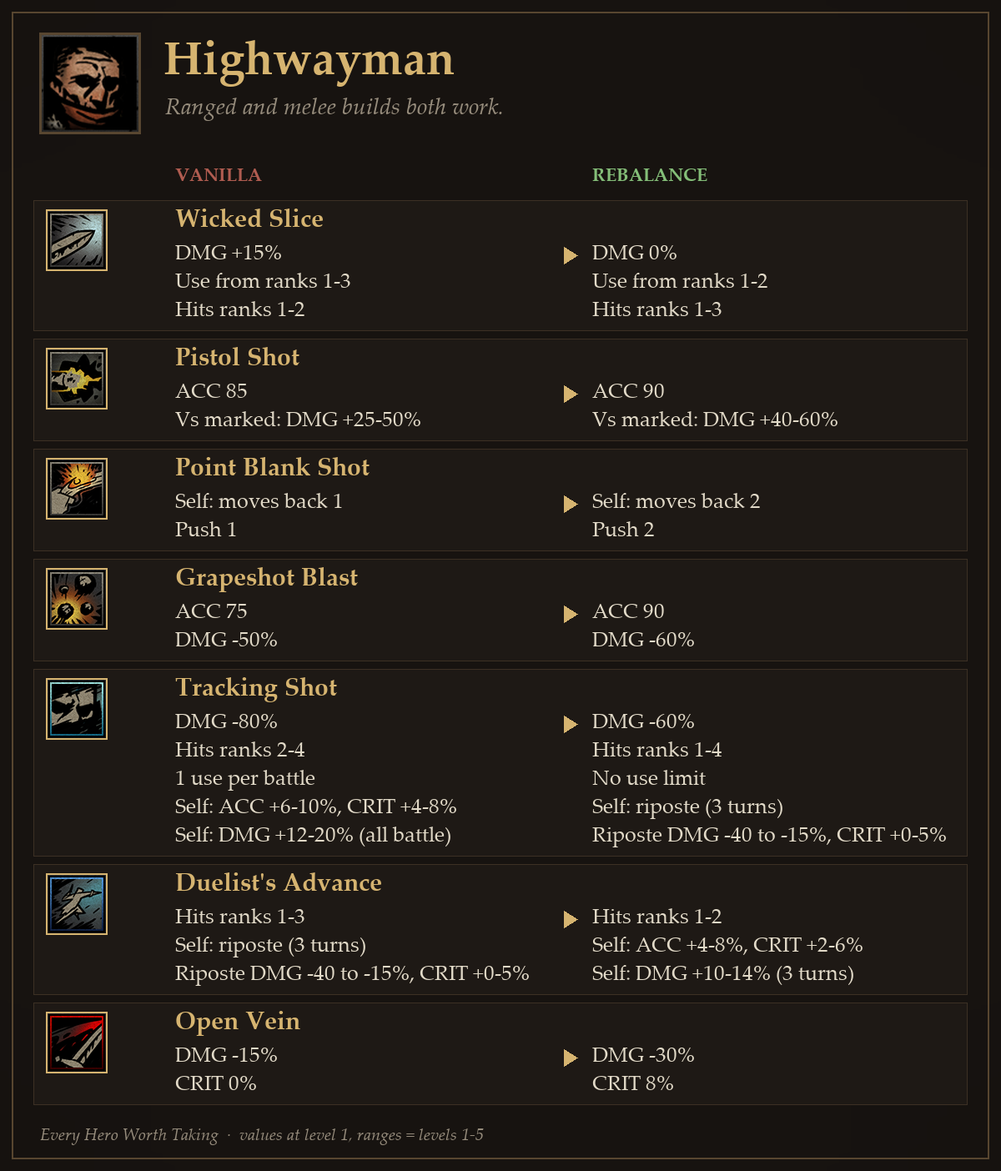
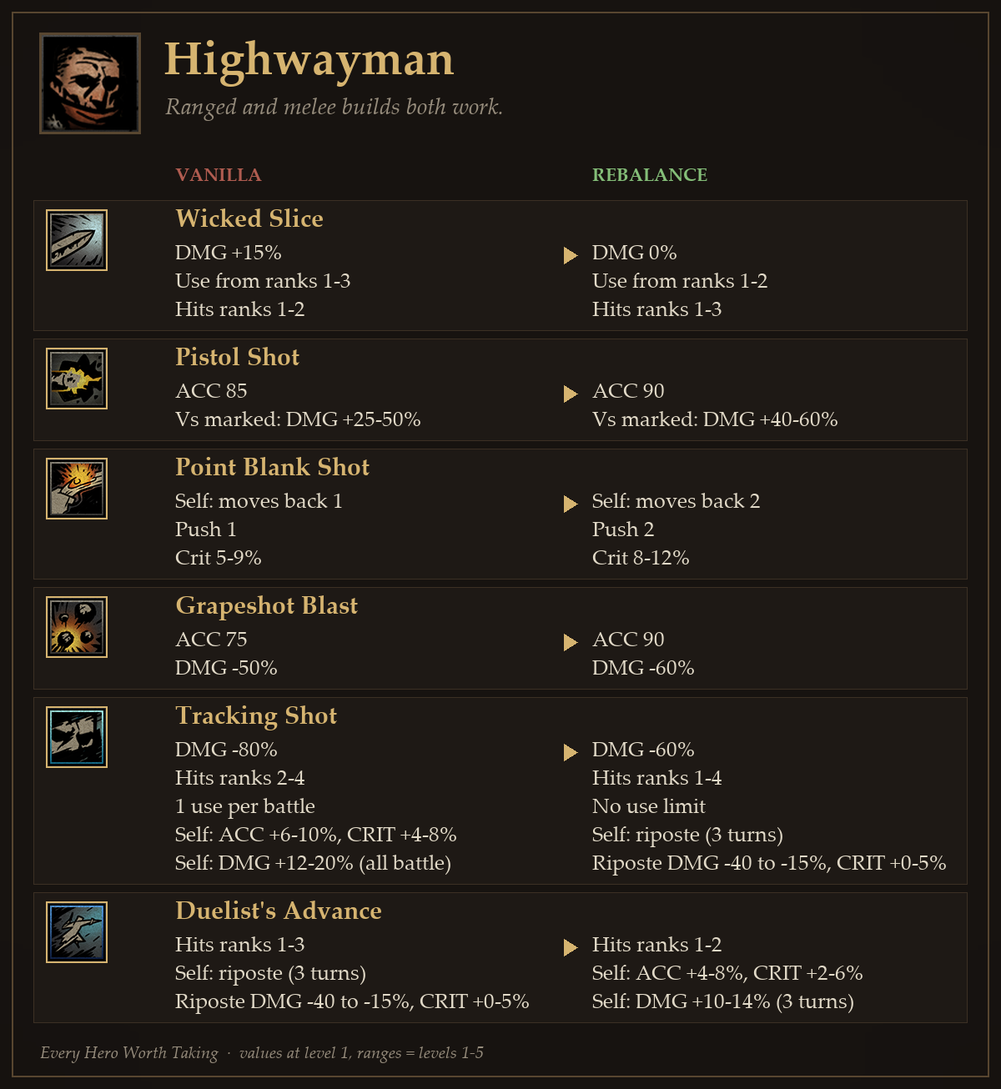
Workshop update 1.1: Musketeer in preview (20 heroes, highlighted), cards/reasons/descriptions for MUS-111, LEP-006, DUE-011, HWY-021/022, BH-018, HM-028; 8 translations; change notes in uploader

diff --git a/tools/make_preview.py b/tools/make_preview.py
@@ -8,7 +8,8 @@ M = os.path.abspath(os.path.join(os.path.dirname(__file__), '..'))
 F = 'C:/Windows/Fonts/'
 BG, LINE, GOLD, DIM = (18, 15, 13), (88, 70, 48), (214, 180, 112), (150, 140, 124)
 HEROES = ['crusader', 'highwayman', 'plague_doctor', 'vestal', 'leper', 'hellion', 'bounty_hunter', 'occultist', 'grave_robber',
-          'jester', 'man_at_arms', 'houndmaster', 'arbalest', 'antiquarian', 'abomination', 'flagellant', 'shieldbreaker', 'runaway', 'duelist']
+          'jester', 'man_at_arms', 'houndmaster', 'arbalest', 'antiquarian', 'abomination', 'flagellant', 'shieldbreaker', 'runaway', 'duelist', 'musketeer']
+NEW = {'musketeer'}   # 새로 리워크한 영웅은 금색 테두리로 살짝 강조 [제작자 10-21]
 
 
 def portrait(h):
@@ -43,16 +44,24 @@ def main(bg_path=None):
     s = 'every hero worth taking'
     w = d.textlength(s, font=sf)
     d.text(((S - w) / 2, 238), s, font=sf, fill=DIM)
-    # 초상화 격자 5-5-5-4
+    # 초상화 격자 5-5-5-5 (20명)
     size, gap = 140, 20
-    rows = [HEROES[0:5], HEROES[5:10], HEROES[10:15], HEROES[15:19]]
+    rows = [HEROES[i:i + 5] for i in range(0, len(HEROES), 5)]
     y = 322
     for r in rows:
         x0 = (S - (len(r) * size + (len(r) - 1) * gap)) / 2
         for i, h in enumerate(r):
             x = int(x0 + i * (size + gap))
             im.paste(portrait(h).resize((size, size), Image.LANCZOS), (x, y))
-            d.rectangle((x - 2, y - 2, x + size + 1, y + size + 1), outline=LINE, width=3)
+            if h in NEW:
+                glow = Image.new('L', (S, S), 0)
+                ImageDraw.Draw(glow).rectangle((x - 10, y - 10, x + size + 9, y + size + 9), fill=150)
+                im.paste(Image.new('RGB', (S, S), GOLD), (0, 0), glow.filter(ImageFilter.GaussianBlur(9)))
+                im.paste(portrait(h).resize((size, size), Image.LANCZOS), (x, y))
+                d = ImageDraw.Draw(im)
+                d.rectangle((x - 3, y - 3, x + size + 2, y + size + 2), outline=GOLD, width=4)
+            else:
+                d.rectangle((x - 2, y - 2, x + size + 1, y + size + 1), outline=LINE, width=3)
         y += size + gap
     out = os.path.join(M, 'design', 'workshop', 'cards', 'preview.png')
     os.makedirs(os.path.dirname(out), exist_ok=True)

diff --git a/tools/build_workshop.py b/tools/build_workshop.py
@@ -280,6 +280,10 @@ def main():
     shutil.copy(icon if os.path.exists(icon) else os.path.join(M, 'preview_icon.png'), os.path.join(OUT, 'preview_icon.png'))
     proj = rd(os.path.join(W, 'project.template.xml'))
     desc = rd(os.path.join(W, 'description_built_en.txt')).strip()
+    # 변경 사항(Change Notes): design/workshop/changenotes/ 에서 가장 최근 파일 → 업로더 UpdateDetails (창작마당 '변경 사항' 탭에 날짜별로 남는다)
+    cns = sorted(glob.glob(os.path.join(W, 'changenotes', '*.txt')))
+    cn = rd(cns[-1]).strip() if cns else 'Update'
+    proj = proj.replace('{UPDATE_DETAILS}', cn.replace('&', '&amp;').replace('<', '&lt;').replace('>', '&gt;'))
     proj = proj.replace('{MOD_DATA_PATH}', OUT.replace('\\', '/') + '/').replace('{DESCRIPTION}', desc.replace('&', '&amp;').replace('<', '&lt;').replace('>', '&gt;'))
     open(os.path.join(OUT, 'project.xml'), 'w', encoding='utf-8', newline='\n').write(proj.replace('\r\n', '\n'))
     entries = []

diff --git a/design/workshop/patch_notes_ko.md b/design/workshop/patch_notes_ko.md
@@ -25,7 +25,7 @@
 ## 현상금 사냥꾼
 
 - **현상금 수거**: 표식 대상: 피해 +90% → 표식 대상: 피해 +100% — 표식 보너스가 +90% 고정이라 5렙에서는 다른 표식 딜러(+100%)보다 낮았다. +100% 고정으로 표식 대상 마무리는 현상금 사냥꾼이 가장 확실하게 한다. *(G-01, P-24 / BH-003)*
-- **죽음의 표식**: 1렙 방어 -10% 3턴; 자신: 속도 +3 2턴 … 5렙 방어 -20% (140%) 3턴; 자신: 속도 +5 2턴 → 1렙 방어 -20% (130%) … 5렙 방어 -30% (170%) — 표식 기술들이 '표식 + 작은 약화 하나'로 거의 같았다. 죽음의 표식은 방어 감소를 키워 방어 있는 적 전용 표식으로 특화하고, 그 대가로 자기 속도 강화를 뺐다. *(G-02, P-11 / BH-013)*
+- **죽음의 표식**: 1렙 방어 -10% 3턴; 자신: 속도 +3 2턴 … 5렙 방어 -20% (140%) 3턴; 자신: 속도 +5 2턴 → 1렙 방어 -20% 3턴 … 5렙 방어 -30% (140%) 3턴 — 표식 기술들이 '표식 + 작은 약화 하나'로 거의 같았다. 죽음의 표식은 방어 감소를 키워 방어 있는 적 전용 표식으로 특화하고, 그 대가로 자기 속도 강화를 뺐다. 약화 확률은 다른 기술과 같은 100~140%. *(G-02, P-11 / BH-013, BH-018)*
 - **이리 오너라**: 명중 90% → 95%; 피해 -80% → -60%; 1렙 당기기 2; 표식 2턴 … 5렙 당기기 2 (140%); 표식 2턴 → 1렙 당기기 3 … 5렙 당기기 3 (140%) — 당기기 3칸이면 3·4열 어느 적을 끌어와도 1열에 서서, 현상금 사냥꾼의 모든 처형 기술이 닿는다. 소표식은 빼서 죽음의 표식이 할 일(표식 → 당기기 → 처형)을 남기고, 당기기가 본업이 된 만큼 명중과 피해를 올렸다. *(G-02, P-22, R-TRADE-02 / BH-009, BH-010)*
 - **어퍼컷**: 명중 90% → 95%; 치명 보정 0% → 9%; 대상 1·2 → 1; 1렙 기절 … 5렙 기절 (140%) → 1렙 기절 (110%) … 5렙 기절 (150%) — 섬광탄이 더 좋아서 어퍼컷을 쓸 일이 없었다. 이제 1열 전용 처형 기절기다 — 1열을 치면 밀려난 적이 3열로 가서 끝장내기 사거리 안에 남는다. 좁아진 대상은 명중·치명타(맨손 턱 타격, 치명타 시 표식 대상 피해 강화도 발동)와 섬광탄에서 가져온 강한 기절로 돌려줬다. *(G-02, P-21, P-19 / BH-007, BH-014, BH-015)*
 - **섬광탄**: 사용 열 4·3·2 → 4·3; 1렙 기절 (110%) … 5렙 기절 (150%) → 1렙 기절 … 5렙 기절 (140%) — 2열에서 어퍼컷과 겹쳐 현상금 사냥꾼이 2열 붙박이가 됐다. 이제 1·2열은 어퍼컷, 3·4열은 섬광탄으로 갈린다. 강한 기절은 어퍼컷으로 옮겼고, 명중 95에 2~4열을 치는 섬광탄은 일반 기절로도 충분하다. *(G-03, G-02 / BH-008)*
@@ -42,7 +42,7 @@
 
 ## 결투가
 
-- **찌르기**: 1렙 자신: 회피 +40% 4턴 … 5렙 자신: 회피 +50% 4턴 → 1렙 자신: 회피 +15% 2턴 … 5렙 자신: 회피 +25% 2턴 — 피해 없는 찌르기가 어느 열에서나 회피 +40~50을 4턴 주었고, 두 번 겹치면 적 명중률이 0%까지 떨어져 기절·약화까지 전부 막았습니다. 강화를 작게, 2턴으로 줄여 두 번 겹쳐도 예전 1회 수준에 머물게 했습니다. *(R-CMB-01, P-12 / DUE-005)*
+- **찌르기**: 1렙 자신: 회피 +40% 4턴 … 5렙 자신: 회피 +50% 4턴 → 1렙 자신: 회피 +15% 3턴 … 5렙 자신: 회피 +25% 3턴 — 피해 없는 찌르기가 어느 열에서나 회피 +40~50을 4턴 주었고, 두 번 겹치면 적 명중률이 0%까지 떨어져 기절·약화까지 전부 막았습니다. 강화를 작게, 2턴으로 줄여 두 번 겹쳐도 예전 1회 수준에 머물게 했습니다. 지속은 3턴, 두 번 겹쳐도 바닐라 1회보다 낮다. *(R-CMB-01, P-12 / DUE-005, DUE-011)*
 - **눈속임**: 1렙 명중 -10% (표식 상태일 때), 방어 -20% (110%) 3턴 … 5렙 명중 -10% (표식 상태일 때), 방어 -30% (150%) 3턴 → 1렙 명중 -10% (표식 상태일 때), 방어 -10% (110%) 3턴 … 5렙 명중 -10% (표식 상태일 때), 방어 -20% (150%) 3턴 — 방어 감소가 현상금 사냥꾼의 죽음의 표식과 숫자까지 같았습니다. 표식의 원래(더 작은) 수치를 받아 두 기술을 구분하고, 이미 강한 결투가를 조금 낮췄습니다. *(P-14, G-01 / DUE-007)*
 - **최후의 일격**: 피해 -60% → -70% — 결투가는 원작에서 손꼽히게 강한 영웅입니다. 최후의 일격은 어느 열에서나 1~4열을 치고 방어를 무시하며 처치하면 추가 행동까지 주므로, 그만큼 피해로 대가를 더 치르게 했습니다. *(R-TRADE-02, R-STRAT-01 / DUE-010)*
 - **부츠**: 피해 -40% → -60% — 기절과 밀치기를 한 번에 거는 근접기인데 다른 기절 기술보다 피해 손실이 작아 실제 플레이에서 지나치게 강했습니다. −60%는 기절 기술의 일반적인 피해 범위 안입니다. *(R-STUN-01, R-STRAT-01 / DUE-006)*
@@ -73,18 +73,17 @@
 
 - **사악한 칼질**: 피해 15% → 0%; 사용 열 3·2·1 → 2·1; 대상 1·2 → 1·2·3 — 사용 열을 근접 위치(1·2열)로 정리했습니다. 근접으로 3열을 치는 희소한 능력은 강화·이동이 있는 결투가의 진격이 아니라 단순한 칼질에 주어 역할을 나눴고, 그 대가로 피해를 근접 단일 기술 표준값으로 맞췄습니다. *(R-SKILL-09, G-02 / HWY-008, HWY-019)*
 - **권총 사격**: 명중 85% → 90%; 1렙 표식 대상: 피해 +25% … 5렙 표식 대상: 피해 +50% → 1렙 표식 대상: 피해 +40% … 5렙 표식 대상: 피해 +60% — 원거리 공격은 거의 다 명중 90에서 시작하는데 권총 사격만 85라 원거리 빌드가 근접 빌드보다 약했습니다. 표식 대상 피해를 올려 표식 파티의 보조 딜러로도 쓸 수 있게 했습니다. *(G-02, P-26, P-03 / HWY-009, HWY-015, MARK-01)*
-- **영거리 사격**: 치명 보정 5% → 8%; 이동 뒤로 1 → 뒤로 2; 1렙 밀치기 1 … 5렙 밀치기 1 (140%) → 1렙 밀치기 2 … 5렙 밀치기 2 (140%) — 명중 95에 대가 없는 피해 +50%로 명백히 과했지만, 수치를 그냥 깎으면 체감이 불쾌합니다. 대신 2칸 뒤로 물러나게 해(도굴꾼 돌진과 대칭) 연달아 쓰기 어렵게 하고, 밀치기를 2칸으로 늘려 쓰는 맛을 더했습니다. 성녀·광대·노상강도·방패 파괴자 고정 조합을 푸는 목적도 있습니다. *(P-12, G-00 / HWY-001, HWY-017)*
+- **영거리 사격**: 치명 보정 5% → 8%; 이동 뒤로 1 → 뒤로 2; 1렙 밀치기 1 … 5렙 밀치기 1 (140%) → 1렙 밀치기 2 … 5렙 밀치기 2 (140%) — 명중 95에 대가 없는 피해 +50%로 명백히 과했지만, 수치를 그냥 깎으면 체감이 불쾌합니다. 대신 2칸 뒤로 물러나게 해(도굴꾼 돌진과 대칭) 연달아 쓰기 어렵게 하고, 밀치기를 2칸으로 늘려 쓰는 맛을 더했습니다. 성녀·광대·노상강도·방패 파괴자 고정 조합을 푸는 목적도 있습니다. 2칸 밀려나는 대가가 커서 치명을 8~12%(돌진과 같음)로 올렸다. *(P-12, G-00 / HWY-001, HWY-017, HWY-021)*
 - **포도탄 발사**: 명중 75% → 90%; 피해 -50% → -60% — 포도탄의 본업은 취약을 걸어 반격과 다른 기술의 치명타를 여는 것입니다(낮은 치명타는 의도된 설계). 취약이 확실히 걸리도록 명중을 올리고, 반복 공격용이 되지 않게 피해로 대가를 치르게 했습니다. *(P-21, R-TRADE-02 / HWY-007, HWY-020)*
 - **추적탄**: 피해 -80% → -60%; 대상 2·3·4 → 1·2·3·4; 전투당 사용 1 → 없음; 1렙 자신: 명중 +6%, 치명타 +4%, 피해 +12% 전투 끝까지 … 5렙 자신: 명중 +10%, 치명타 +8%, 피해 +20% 전투 끝까지 → 1렙 자신: 피해 -40%, 치명타 +0% 3턴 … 5렙 자신: 피해 -15%, 치명타 +5% 3턴 — 반격은 앞으로 이동하는 결투가의 진격에만 있어서 원거리 빌드는 자리를 깨지 않고는 반격을 쓸 수 없었습니다. 조준하며 상대를 간파하는 쪽이 반격에 더 어울리므로, 추적탄이 이동 없이 반격을 켜고 매 턴 쓸 수 있으며 마무리 공격을 할 만큼 피해도 조금 올렸습니다. *(G-03, P-19, G-02 / HWY-004, HWY-019)*
 - **결투가의 진격**: 대상 1·2·3 → 1·2; 1렙 자신: 피해 -40%, 치명타 +0% 3턴 … 5렙 자신: 피해 -15%, 치명타 +5% 3턴 → 1렙 자신: 명중 +4%, 치명타 +2%, 피해 +10% 3턴 … 5렙 자신: 명중 +8%, 치명타 +6%, 피해 +14% 3턴 — 반격은 추적탄으로 옮기고, 앞으로 나서며 자세를 잡는 진격은 자기 강화를 줍니다. 두 번 연속 쓰면 중첩되므로 강화는 3턴 지속에 예전 추적탄 강화보다 작게 했고, 3열 도달은 사악한 칼질에 넘겨 진격이 칼질을 대체하지 않게 했습니다. *(G-02, P-19, P-11 / HWY-005, HWY-010, HWY-013, HWY-016, HWY-018)*
-- **정맥 절개**: 피해 -15% → -30%; 치명 보정 0% → 8% — 명중 95에 출혈과 약화 2개를 걸면서 피해 손실이 거의 없어 키트에서 가장 강한 기술이었습니다. 장신구가 그 약화에 의존하므로 약화를 빼는 대신 피해를 낮추고, 정밀하게 긋는 칼질에 맞게 치명타를 올렸습니다(치명타는 출혈도 늘림). 효과를 거는 것이 본업이라 명중은 그대로 두었습니다. *(P-20, P-21, R-TRADE-02 / HWY-006, HWY-019, HWY-020)*
 
 ## 조련사
 
 - **저항**: 저항 poison 40% → 30%; 저항 bleed 40% → 30% — 영웅 저항은 설정 문장이 있을 때만 기준치를 벗어난다. 조련사 설명(낡은 제복, 받아내기보다 회피)에는 중독·출혈 저항이 높을 근거가 없고 같은 문장 구조의 노상강도는 30이며, 함정 저항은 '사냥개를 밤에 경비로 세운다'는 설정이 있어 유지한다. *(P-22, R-RES-01 / HM-017)*
 - **사냥개 돌진**: 명중 85% → 90%; 피해 0% → -25%; 사용 열 4·3·2 → 4·3·2·1; 1렙 출혈 1×3턴 … 5렙 표식 대상: 피해 +100%; 출혈 2×3턴 (140%) → 1렙 출혈 1×2턴 … 5렙 표식 대상: 피해 +60%; 출혈 3×2턴 (140%) — 사냥개 돌진을 모든 열에서 쓸 수 있게 해 어디서나 쓰는 범용 공격으로 만들었고, 조련사는 딜이 아니라 지원이 강해야 하므로 대신 기본 피해와 표식 추가 피해를 낮췄다(개 간식으로 순간 화력은 여전히 낼 수 있다). 명중을 올리고 출혈은 짧지만 고레벨에서 더 세게 해, 가벼워진 한 방도 안정적으로 들어가게 했다. *(P-24, G-00, P-11 / HM-019, HM-016, HM-018, HM-010, HM-023, HM-011)*
 - **사냥개 습격**: 명중 85% → 90%; 피해 -75% → -70%; 사용 열 4·3·2·1 → 4·3·2 — 사냥개 습격은 거의 쓰이지 않았다. 광역 출혈은 얕게 퍼져 전투가 끝나기 전에 다 들어가지 못하고, 해골·익사자처럼 출혈에 사실상 면역인 적도 많다. 피해를 조금 올리고 명중을 출혈 기술 표준인 90으로 맞췄으며, 1열 사용을 빼서 습격과 둔기 강타를 함께 쓸 수 있는 2열이 조련사의 주 자리가 되게 했다. *(G-02, G-03, R-VALUE-03 / HM-012, HM-027)*
-- **목표물 지정**: 1렙 방어 -20% (130%) … 5렙 방어 -30% (170%) → 1렙 명중 -25% (130%) 3턴 … 5렙 명중 -30% (170%) 3턴 — 방어 감소는 방어가 0인 많은 적에게 효과가 없었고 현상금 사냥꾼의 죽음의 표식과 겹쳤다. 이제 목표물 지정은 표식한 적의 명중을 떨어뜨리는 방어형 표식으로, 보호형 영웅인 조련사에 맞고 석궁사수(회피)·현상금 사냥꾼(방어) 표식과도 역할이 갈린다. *(P-24, P-14, P-19 / HM-020, HM-021)*
+- **목표물 지정**: 1렙 방어 -20% (130%) … 5렙 방어 -30% (170%) → 1렙 명중 -25% 3턴 … 5렙 명중 -30% (140%) 3턴 — 방어 감소는 방어가 0인 많은 적에게 효과가 없었고 현상금 사냥꾼의 죽음의 표식과 겹쳤다. 이제 목표물 지정은 표식한 적의 명중을 떨어뜨리는 방어형 표식으로, 보호형 영웅인 조련사에 맞고 석궁사수(회피)·현상금 사냥꾼(방어) 표식과도 역할이 갈린다. 약화 확률은 다른 기술과 같은 100~140%. *(P-24, P-14, P-19 / HM-020, HM-021, HM-028)*
 - **위험 경보**: 1렙 스트레스 회복 2 (66%) … 5렙 변화 없음 → 1렙 스트레스 회복 4 (70%) … 5렙 변화 없음 — 위험 경보는 유일한 아군 전체 스트레스 회복인데 유일하게 확률형이라, 저레벨에서는 턴을 쓸 가치가 없을 만큼 불안정했다. 1~4레벨 회복량을 올리고 확률이 매 레벨 오르게 했으며, 5레벨은 그대로 두어 기존 사용자의 체감은 바뀌지 않는다. *(G-05, P-12 / HM-014, HM-026)*
 - **경비견**: 1렙 자신: 회피 +10% 3턴 … 5렙 자신: 회피 +20% 3턴 → 1렙 자신: 회피 +20% 3턴 … 5렙 자신: 회피 +30% 3턴 — 아군을 보호하는 영웅은 공격을 약 1.6배 더 받는데, 기존 회피 보너스로는 그 위험을 감당하기 어려웠다. 길드 설명 '약자를 보호'와, 딜은 낮추고 유틸은 올리는 조련사 방향에 맞춰 회피를 높였다. *(P-24, G-02 / HM-025)*
 - **상처 핥기**: 사용 열 4·3·2 → 4·3·2·1 — 가장 많이 맞는 1열에서 자가 회복을 못 쓰는 구조가 이상했다. 이제 모든 열에서 쓸 수 있어 '고통받는 자들을 부축한다'는 설정에 맞고, 1열에서 쓸 수 있는 기술 수도 평균 수준이 된다. *(G-03, P-22 / HM-015)*
@@ -98,6 +97,7 @@
 
 ## 나병환자
 
+- **복수**: 1렙 자신: 회피 -10%, 받는 피해 +25% 전투 끝까지 … 5렙 변화 없음 → 1렙 자신: 회피 -6%, 받는 피해 +15% 전투 끝까지 … 5렙 변화 없음 — 복수는 1렙부터 받는 피해 +25%가 너무 무거워 초반엔 거의 안 썼다. 대가도 강화처럼 레벨마다 커지게(회피 −6~−10%, 받는 피해 +15~25%) 바꿔 초반부터 고려할 만한 선택지로 만들었다. 5렙은 그대로. *(G-01 / LEP-006)*
 - **위협**: 명중 95% → 85%; 피해 -85%/-85%/-85%/-80%/-80% → -40%; 치명 보정 0% → 3%; 대상 1·2·3·4 → 1; 은신 무시 true → 없음; 1렙 속도 -3, 피해 -20% 3턴; 자신: 표식 4턴; 은신 해제; 자신: 속도 +2 … 5렙 속도 -5, 피해 -33% (140%) 3턴; 자신: 표식 4턴; 은신 해제; 자신: 속도 +4 → 1렙 방어 -30% 2턴 … 5렙 방어 -50% (140%) 2턴 — 위협은 적 약화·자기 표식·은신 해제를 거는 지원 기술이라 '서포터가 받쳐 주는 왕'인 나병환자 정체성과 맞지 않았고, 은신 해제는 다른 다섯 기술과 겹쳤다. 이제 같은 모션의 축출과 명중·피해가 같은 1열 일격으로, 이름대로 적의 갑옷을 짧고 크게 깎아 토막치기와 아군 공격이 중장갑 전열을 뚫게 한다. *(P-19, G-02, G-01 / LEP-001, LEP-002, LEP-003, LEP-005)*
 
 ## 중보병
@@ -111,6 +111,7 @@
 
 ## 총사
 
+- **crit**: (crit) — 치명타 버프가 더는 표식 대상 피해(석궁사수·현상금 사냥꾼 몫)가 아니다. 치명타가 터지면 2턴 동안 방어 관통 +20%. *(P-19 / MUS-111)*
 - **무기**: 무기 속도 3 / 3 / 4 / 4 / 5 → 2 / 2 / 3 / 3 / 4 — 화승총은 원래 느린 총이고, 자리를 옮길 수 있는 영웅은 붙박이인 석궁사수보다 강하면 안 되니 속도를 1 낮췄다. *(P-19 / MUS-101)*
 - **방어구**: 방어구 체력 27 / 32 / 37 / 42 / 47 → 24 / 28 / 33 / 37 / 42 — 대회 참가자의 조끼는 탈영병의 판금이 아니다. 석궁사수보다 체력을 낮췄다. *(P-19 / MUS-102)*
 - **관통탄 (조준사격)**: 명중 95% → 90%; 대상 2·3·4 → 1·2·3·4; 1렙 표식 대상: 피해 +50%, 치명타 +9% 3턴 … 5렙 표식 대상: 피해 +100%, 치명타 +13% 3턴 → 1렙 표식 대상: 피해 +25%, 치명타 +9%; 자신: 방어 관통 +10% 1턴 … 5렙 표식 대상: 피해 +40%, 치명타 +13%; 자신: 방어 관통 +30% 1턴 — 설정 속 특수탄. 모든 열에 닿고 방어를 10~30% 뚫는 꾸준한 딜러가 됐다. 방어를 뚫는 만큼 표식 대상 추가 피해는 석궁사수보다 훨씬 낮다. *(P-19, R-TRADE-02 / MUS-103)*

diff --git a/design/workshop/patch_notes_en.md b/design/workshop/patch_notes_en.md
@@ -25,7 +25,7 @@ Each entry: what changed (generated from the game data) — why (principle IDs f
 ## Bounty Hunter
 
 - **Collect Bounty**: vs marked: damage +90% → vs marked: damage +100% — His marked bonus was a flat +90% that fell behind other mark dealers' level-5 bonus; a flat +100% keeps the Bounty Hunter the go-to finisher for marked targets. *(G-01, P-24 / BH-003)*
-- **Mark for Death**: Lv1 protection -10% 3t; self: speed +3 2t … Lv5 protection -20% (140%) 3t; self: speed +5 2t → Lv1 protection -20% (130%) … Lv5 protection -30% (170%) — All marking skills were nearly identical (mark plus one small debuff). Mark for Death now specializes against armored enemies with a bigger protection cut, and gives up its self speed buff in exchange. *(G-02, P-11 / BH-013)*
+- **Mark for Death**: Lv1 protection -10% 3t; self: speed +3 2t … Lv5 protection -20% (140%) 3t; self: speed +5 2t → Lv1 protection -20% 3t … Lv5 protection -30% (140%) 3t — All marking skills were nearly identical (mark plus one small debuff). Mark for Death now specializes against armored enemies with a bigger protection cut, and gives up its self speed buff in exchange. Its debuff chance is the usual 100-140%. *(G-02, P-11 / BH-013, BH-018)*
 - **Come Hither**: Accuracy 90% → 95%; Damage -80% → -60%; Lv1 pull 2; mark 2t … Lv5 pull 2 (140%); mark 2t → Lv1 pull 3 … Lv5 pull 3 (140%) — Pulling 3 ranks means whatever it hooks from rank 3 or 4 lands in rank 1, where all of his finishers reach. The minor mark is gone so Mark for Death keeps its job (mark, hook, execute); accuracy and damage rise in return, since pulling is now its whole job. *(G-02, P-22, R-TRADE-02 / BH-009, BH-010)*
 - **Uppercut**: Accuracy 90% → 95%; Crit 0% → 9%; Targets 1·2 → 1; Lv1 stun … Lv5 stun (140%) → Lv1 stun (110%) … Lv5 stun (150%) — Flashbang was simply better, so Uppercut was rarely taken. It is now a rank-1-only execution stun: hitting rank 1 pushes the target to rank 3, still inside Finish Him's reach. The narrower target is paid back with accuracy, crit (a bare-fist jaw strike, which also triggers his on-crit marked-damage buff) and the strong stun taken from Flashbang. *(G-02, P-21, P-19 / BH-007, BH-014, BH-015)*
 - **Flashbang**: Usable ranks 4·3·2 → 4·3; Lv1 stun (110%) … Lv5 stun (150%) → Lv1 stun … Lv5 stun (140%) — From rank 2 it overlapped with Uppercut, which left him locked into rank 2. Now Uppercut is his front-rank stun and Flashbang his back-rank stun; the strong stun moved to Uppercut, and a 95-accuracy, no-damage stun reaching ranks 2–4 still justifies a normal stun. *(G-03, G-02 / BH-008)*
@@ -42,7 +42,7 @@ Each entry: what changed (generated from the game data) — why (principle IDs f
 
 ## Duelist
 
-- **Touché**: Lv1 self: dodge +40% 4t … Lv5 self: dodge +50% 4t → Lv1 self: dodge +15% 2t … Lv5 self: dodge +25% 2t — A no-damage jab usable from any rank granted +40–50 dodge for 4 turns, and two casts stacked could push enemy hit chance to 0%, blocking their stuns and debuffs as well. With a smaller, 2-turn buff, even two stacks only reach what one cast used to give. *(R-CMB-01, P-12 / DUE-005)*
+- **Touché**: Lv1 self: dodge +40% 4t … Lv5 self: dodge +50% 4t → Lv1 self: dodge +15% 3t … Lv5 self: dodge +25% 3t — A no-damage jab usable from any rank granted +40–50 dodge for 4 turns, and two casts stacked could push enemy hit chance to 0%, blocking their stuns and debuffs as well. With a smaller, 2-turn buff, even two stacks only reach what one cast used to give. The buff now lasts 3 turns; two stacks stay below one vanilla use. *(R-CMB-01, P-12 / DUE-005, DUE-011)*
 - **Feint**: Lv1 accuracy -10% (while marked), protection -20% (110%) 3t … Lv5 accuracy -10% (while marked), protection -30% (150%) 3t → Lv1 accuracy -10% (while marked), protection -10% (110%) 3t … Lv5 accuracy -10% (while marked), protection -20% (150%) 3t — Its protection shred was identical to the Bounty Hunter's Mark for Death. Feint now takes the Mark's smaller original values, keeping the two skills distinct and trimming an already strong hero. *(P-14, G-01 / DUE-007)*
 - **Coup de Grâce**: Damage -60% → -70% — The Duelist is one of the strongest heroes in the base game. Coup de Grâce reaches every rank from any position, ignores protection and grants an extra action on a kill, so it now pays more in damage for all that. *(R-TRADE-02, R-STRAT-01 / DUE-010)*
 - **The Boot**: Damage -40% → -60% — A melee kick that stuns and pushes in one action gave up less damage than other stun skills and felt overpowered in play. −60% puts it inside the usual damage range of stun skills. *(R-STUN-01, R-STRAT-01 / DUE-006)*
@@ -73,18 +73,17 @@ Each entry: what changed (generated from the game data) — why (principle IDs f
 
 - **Wicked Slice**: Damage 15% → 0%; Usable ranks 3·2·1 → 2·1; Targets 1·2 → 1·2·3 — Its usable ranks are trimmed to true melee positions. It now gets the rare melee reach into rank 3, given to this plain strike rather than Duelist's Advance (which has a buff and movement and would make it redundant), and its damage drops to the standard melee value to pay for that reach. *(R-SKILL-09, G-02 / HWY-008, HWY-019)*
 - **Pistol Shot**: Accuracy 85% → 90%; Lv1 vs marked: damage +25% … Lv5 vs marked: damage +50% → Lv1 vs marked: damage +40% … Lv5 vs marked: damage +60% — Almost every ranged attack in the game starts at 90 accuracy; Pistol Shot sat at 85, leaving his ranged build behind his melee one. The bigger bonus against marked targets lets him serve as secondary damage in mark parties. *(G-02, P-26, P-03 / HWY-009, HWY-015, MARK-01)*
-- **Point Blank Shot**: Crit 5% → 8%; Move back 1 → back 2; Lv1 push 1 … Lv5 push 1 (140%) → Lv1 push 2 … Lv5 push 2 (140%) — With 95 accuracy and +50% damage at no cost it was overpowered, but a flat nerf would feel bad. Instead he recoils 2 ranks (mirroring the Grave Robber's Lunge), so it is hard to fire repeatedly, and the push grows to 2 as an upside. This loosens the fixed Vestal/Jester/Highwayman/Shieldbreaker lineup. *(P-12, G-00 / HWY-001, HWY-017)*
+- **Point Blank Shot**: Crit 5% → 8%; Move back 1 → back 2; Lv1 push 1 … Lv5 push 1 (140%) → Lv1 push 2 … Lv5 push 2 (140%) — With 95 accuracy and +50% damage at no cost it was overpowered, but a flat nerf would feel bad. Instead he recoils 2 ranks (mirroring the Grave Robber's Lunge), so it is hard to fire repeatedly, and the push grows to 2 as an upside. This loosens the fixed Vestal/Jester/Highwayman/Shieldbreaker lineup. Crit rises to 8-12% (same as Lunge) to reward the two-rank retreat. *(P-12, G-00 / HWY-001, HWY-017, HWY-021)*
 - **Grapeshot Blast**: Accuracy 75% → 90%; Damage -50% → -60% — Its job is to land the vulnerability debuff that sets up crits for his ripostes and other skills (its low crit is by design). Accuracy is raised so that setup lands reliably, paid for with lower damage so it stays a setup tool rather than an attack to spam. *(P-21, R-TRADE-02 / HWY-007, HWY-020)*
 - **Tracking Shot**: Damage -80% → -60%; Targets 2·3·4 → 1·2·3·4; Uses per battle 1 → none; Lv1 self: accuracy +6%, crit +4%, damage +12% until combat ends … Lv5 self: accuracy +10%, crit +8%, damage +20% until combat ends → Lv1 self: damage -40%, crit +0% 3t … Lv5 self: damage -15%, crit +5% 3t — Riposte used to come only from Duelist's Advance, which moves him forward, so a ranged build couldn't use it without breaking formation. Taking aim and reading the foe fits a counter better: Tracking Shot now grants riposte without moving, can be used every turn, and hits a bit harder to finish targets while setting up. *(G-03, P-19, G-02 / HWY-004, HWY-019)*
 - **Duelist's Advance**: Targets 1·2·3 → 1·2; Lv1 self: damage -40%, crit +0% 3t … Lv5 self: damage -15%, crit +5% 3t → Lv1 self: accuracy +4%, crit +2%, damage +10% 3t … Lv5 self: accuracy +8%, crit +6%, damage +14% 3t — Riposte moved to Tracking Shot; stepping forward into a duelist's stance now grants a self buff instead. The buff lasts 3 turns and is smaller than the old Tracking Shot buff because it stacks when used twice in a row, and rank-3 reach went to Wicked Slice so Advance doesn't make it redundant. *(G-02, P-19, P-11 / HWY-005, HWY-010, HWY-013, HWY-016, HWY-018)*
-- **Open Vein**: Damage -15% → -30%; Crit 0% → 8% — Bleed plus two debuffs at 95 accuracy cost almost no damage, making it his strongest skill. Trinkets rely on those debuffs, so instead of removing one, damage was lowered and crit raised to fit a precise cut (crits also extend the bleed). Accuracy stays high because landing its effects is its main job. *(P-20, P-21, R-TRADE-02 / HWY-006, HWY-019, HWY-020)*
 
 ## Houndmaster
 
 - **Resistances**: Resists poison 40% → 30%; Resists bleed 40% → 30% — A hero's resistances only rise above the standard baseline when their lore gives a reason. Nothing in the Houndmaster's description (a worn uniform, dodging rather than soaking blows) explains extra blight and bleed resist, and the Highwayman, described the same way, sits at 30; his high trap resist stays because his hound stands watch at night. *(P-22, R-RES-01 / HM-017)*
 - **Hound's Rush**: Accuracy 85% → 90%; Damage 0% → -25%; Usable ranks 4·3·2 → 4·3·2·1; Lv1 bleed 1×3t … Lv5 vs marked: damage +100%; bleed 2×3t (140%) → Lv1 bleed 1×2t … Lv5 vs marked: damage +60%; bleed 3×2t (140%) — Hound's Rush can now be used from any rank, making it the Houndmaster's go-anywhere attack; in return its base damage and mark bonus are lower, because he should shine at support rather than damage (Dog Treats can still spike it). Higher accuracy and a shorter bleed that hits harder at high levels keep the lighter hit reliable. *(P-24, G-00, P-11 / HM-019, HM-016, HM-018, HM-010, HM-023, HM-011)*
 - **Hound's Harry**: Accuracy 85% → 90%; Damage -75% → -70%; Usable ranks 4·3·2·1 → 4·3·2 — Hound's Harry was almost never picked: an area bleed spreads thin, fights end before it pays off, and many enemies (skeletons, the Drowned) are nearly immune to bleed. It gets a little more damage and the standard 90 accuracy of bleed skills, and losing rank 1 makes rank 2 the one spot where Harry and Blackjack are both available. *(G-02, G-03, R-VALUE-03 / HM-012, HM-027)*
-- **Target Whistle**: Lv1 protection -20% (130%) … Lv5 protection -30% (170%) → Lv1 accuracy -25% (130%) 3t … Lv5 accuracy -30% (170%) 3t — The protection debuff did nothing to the many enemies with no protection and duplicated the Bounty Hunter's Mark for Death. Target Whistle now throws off the marked enemy's aim, a defensive mark that suits the Houndmaster's protector role and sits apart from the Arbalest's (dodge) and Bounty Hunter's (protection) marks. *(P-24, P-14, P-19 / HM-020, HM-021)*
+- **Target Whistle**: Lv1 protection -20% (130%) … Lv5 protection -30% (170%) → Lv1 accuracy -25% 3t … Lv5 accuracy -30% (140%) 3t — The protection debuff did nothing to the many enemies with no protection and duplicated the Bounty Hunter's Mark for Death. Target Whistle now throws off the marked enemy's aim, a defensive mark that suits the Houndmaster's protector role and sits apart from the Arbalest's (dodge) and Bounty Hunter's (protection) marks. Its debuff chance is the usual 100-140%. *(P-24, P-14, P-19 / HM-020, HM-021, HM-028)*
 - **Cry Havoc**: Lv1 stress heal 2 (66%) … Lv5 unchanged → Lv1 stress heal 4 (70%) … Lv5 unchanged — Cry Havoc is the only party-wide stress heal and the only stress heal that can fail, so at low levels it was too unreliable to be worth a turn. Levels 1-4 now heal more and the chance grows every level, while level 5 is unchanged so experienced players feel no difference. *(G-05, P-12 / HM-014, HM-026)*
 - **Guard Dog**: Lv1 self: dodge +10% 3t … Lv5 self: dodge +20% 3t → Lv1 self: dodge +20% 3t … Lv5 self: dodge +30% 3t — A hero who guards an ally gets attacked about 1.6 times as often, and the old dodge bonus barely covered that risk. The bigger dodge fits his guild text ('protects the weak') and the Houndmaster's direction of less damage, more utility. *(P-24, G-02 / HM-025)*
 - **Lick Wounds**: Usable ranks 4·3·2 → 4·3·2·1 — Rank 1 takes the most hits, yet the Houndmaster couldn't heal himself there. Lick Wounds now works from any rank, fitting his lore of aiding the suffering and bringing his rank-1 options up to the average. *(G-03, P-22 / HM-015)*
@@ -98,6 +97,7 @@ Each entry: what changed (generated from the game data) — why (principle IDs f
 
 ## Leper
 
+- **Revenge**: Lv1 self: dodge -10%, damage taken +25% until combat ends … Lv5 unchanged → Lv1 self: dodge -6%, damage taken +15% until combat ends … Lv5 unchanged — Revenge was rarely used early because damage taken +25% is a heavy price at level 1. Its cost now grows with level like its buff (dodge -6 to -10%, damage taken +15 to +25%), so it is a real option from the start and unchanged at level 5. *(G-01 / LEP-006)*
 - **Intimidate**: Accuracy 95% → 85%; Damage -85%/-85%/-85%/-80%/-80% → -40%; Crit 0% → 3%; Targets 1·2·3·4 → 1; Ignores stealth true → none; Lv1 speed -3, damage -20% 3t; self: mark 4t; destealth; self: speed +2 … Lv5 speed -5, damage -33% (140%) 3t; self: mark 4t; destealth; self: speed +4 → Lv1 protection -30% 2t … Lv5 protection -50% (140%) 2t — Intimidate was a support skill (enemy debuffs, self-mark, destealth) that clashed with the Leper's identity as a king carried by his supporters, and its destealth overlapped five other skills. It is now a front-line blow with the same accuracy and damage as Purge, its twin animation, that briefly cracks the target's armor so Chop and the party can break heavily armored front-liners. *(P-19, G-02, G-01 / LEP-001, LEP-002, LEP-003, LEP-005)*
 
 ## Man-at-Arms
@@ -111,6 +111,7 @@ Each entry: what changed (generated from the game data) — why (principle IDs f
 
 ## Musketeer
 
+- **crit**: (crit) — Her crit bonus no longer adds damage against marked targets (that is the Arbalest's and Bounty Hunter's job). A crit now gives armor piercing +20% for two turns. *(P-19 / MUS-111)*
 - **Weapon**: Weapon speed 3 / 3 / 4 / 4 / 5 → 2 / 2 / 3 / 3 / 4 — Her matchlock is a slow gun, and since she can change ranks she should not outclass the rank-locked Arbalest, so she is one point slower. *(P-19 / MUS-101)*
 - **Armor**: Armor HP 27 / 32 / 37 / 42 / 47 → 24 / 28 / 33 / 37 / 42 — A tournament entrant's vest is not a deserter's plate: less health than the Arbalest. *(P-19 / MUS-102)*
 - **Piercing Ball (Aimed Shot)**: Accuracy 95% → 90%; Targets 2·3·4 → 1·2·3·4; Lv1 vs marked: damage +50%, crit +9% 3t … Lv5 vs marked: damage +100%, crit +13% 3t → Lv1 vs marked: damage +25%, crit +9%; self: armor piercing +10% 1t … Lv5 vs marked: damage +40%, crit +13%; self: armor piercing +30% 1t — Special ammunition from her lore: the shot now reaches every rank and pierces 10-30% armor, so she is a steady dealer against tough enemies. Because of the piercing, her bonus against marked targets is far smaller than the Arbalest's. *(P-19, R-TRADE-02 / MUS-103)*
